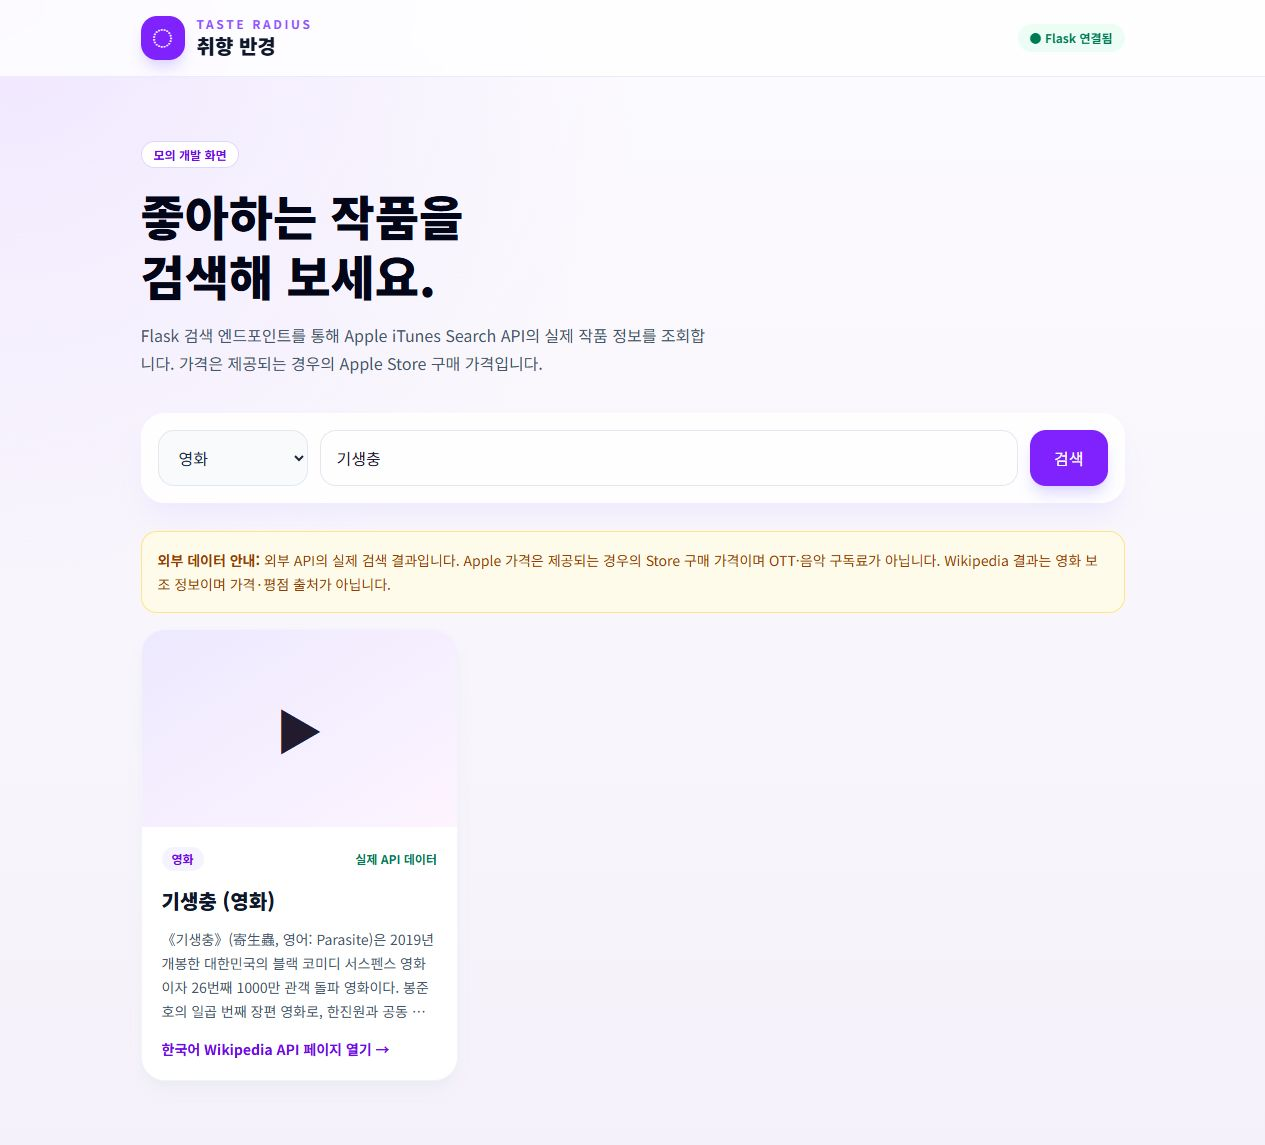
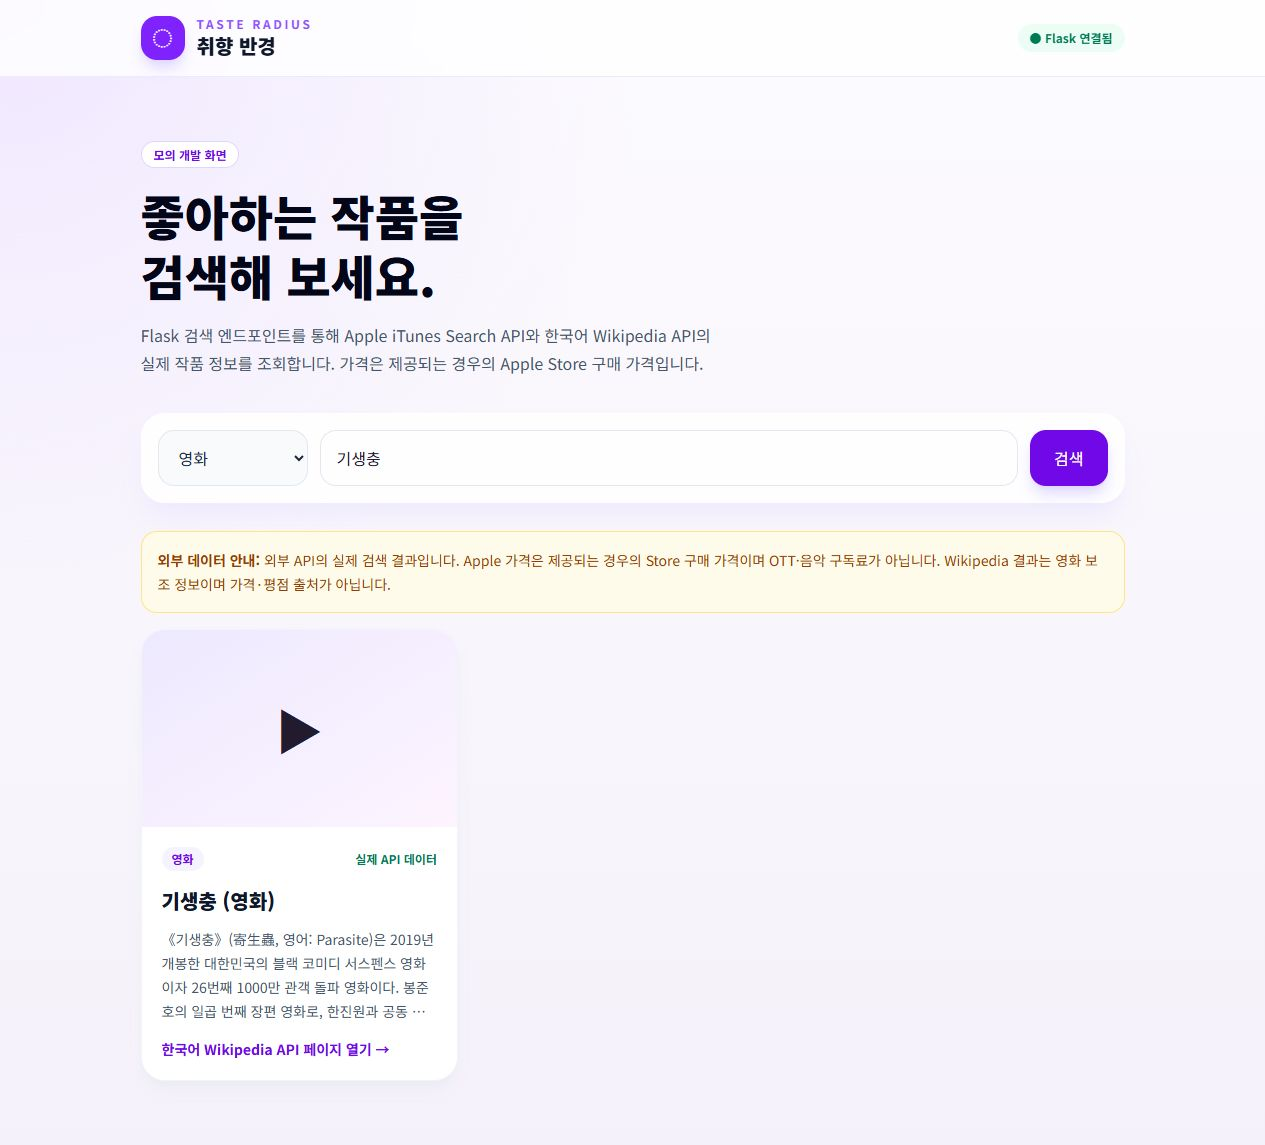
docs: clarify feasibility data sources

Changed region(s): [[0.1233, 0.2751, 0.5549, 0.3362], [0.8016, 0.3668, 0.8941, 0.4279]]

diff --git a/dooro/feasibility-check/frontend/src/App.jsx b/dooro/feasibility-check/frontend/src/App.jsx
@@ -110,8 +110,9 @@ function App() {
             검색해 보세요.
           </h2>
           <p className="mt-4 max-w-xl text-base leading-7 text-slate-600">
-            Flask 검색 엔드포인트를 통해 Apple iTunes Search API의 실제 작품
-            정보를 조회합니다. 가격은 제공되는 경우의 Apple Store 구매 가격입니다.
+            Flask 검색 엔드포인트를 통해 Apple iTunes Search API와 한국어
+            Wikipedia API의 실제 작품 정보를 조회합니다. 가격은 제공되는 경우의
+            Apple Store 구매 가격입니다.
           </p>
         </section>
 
